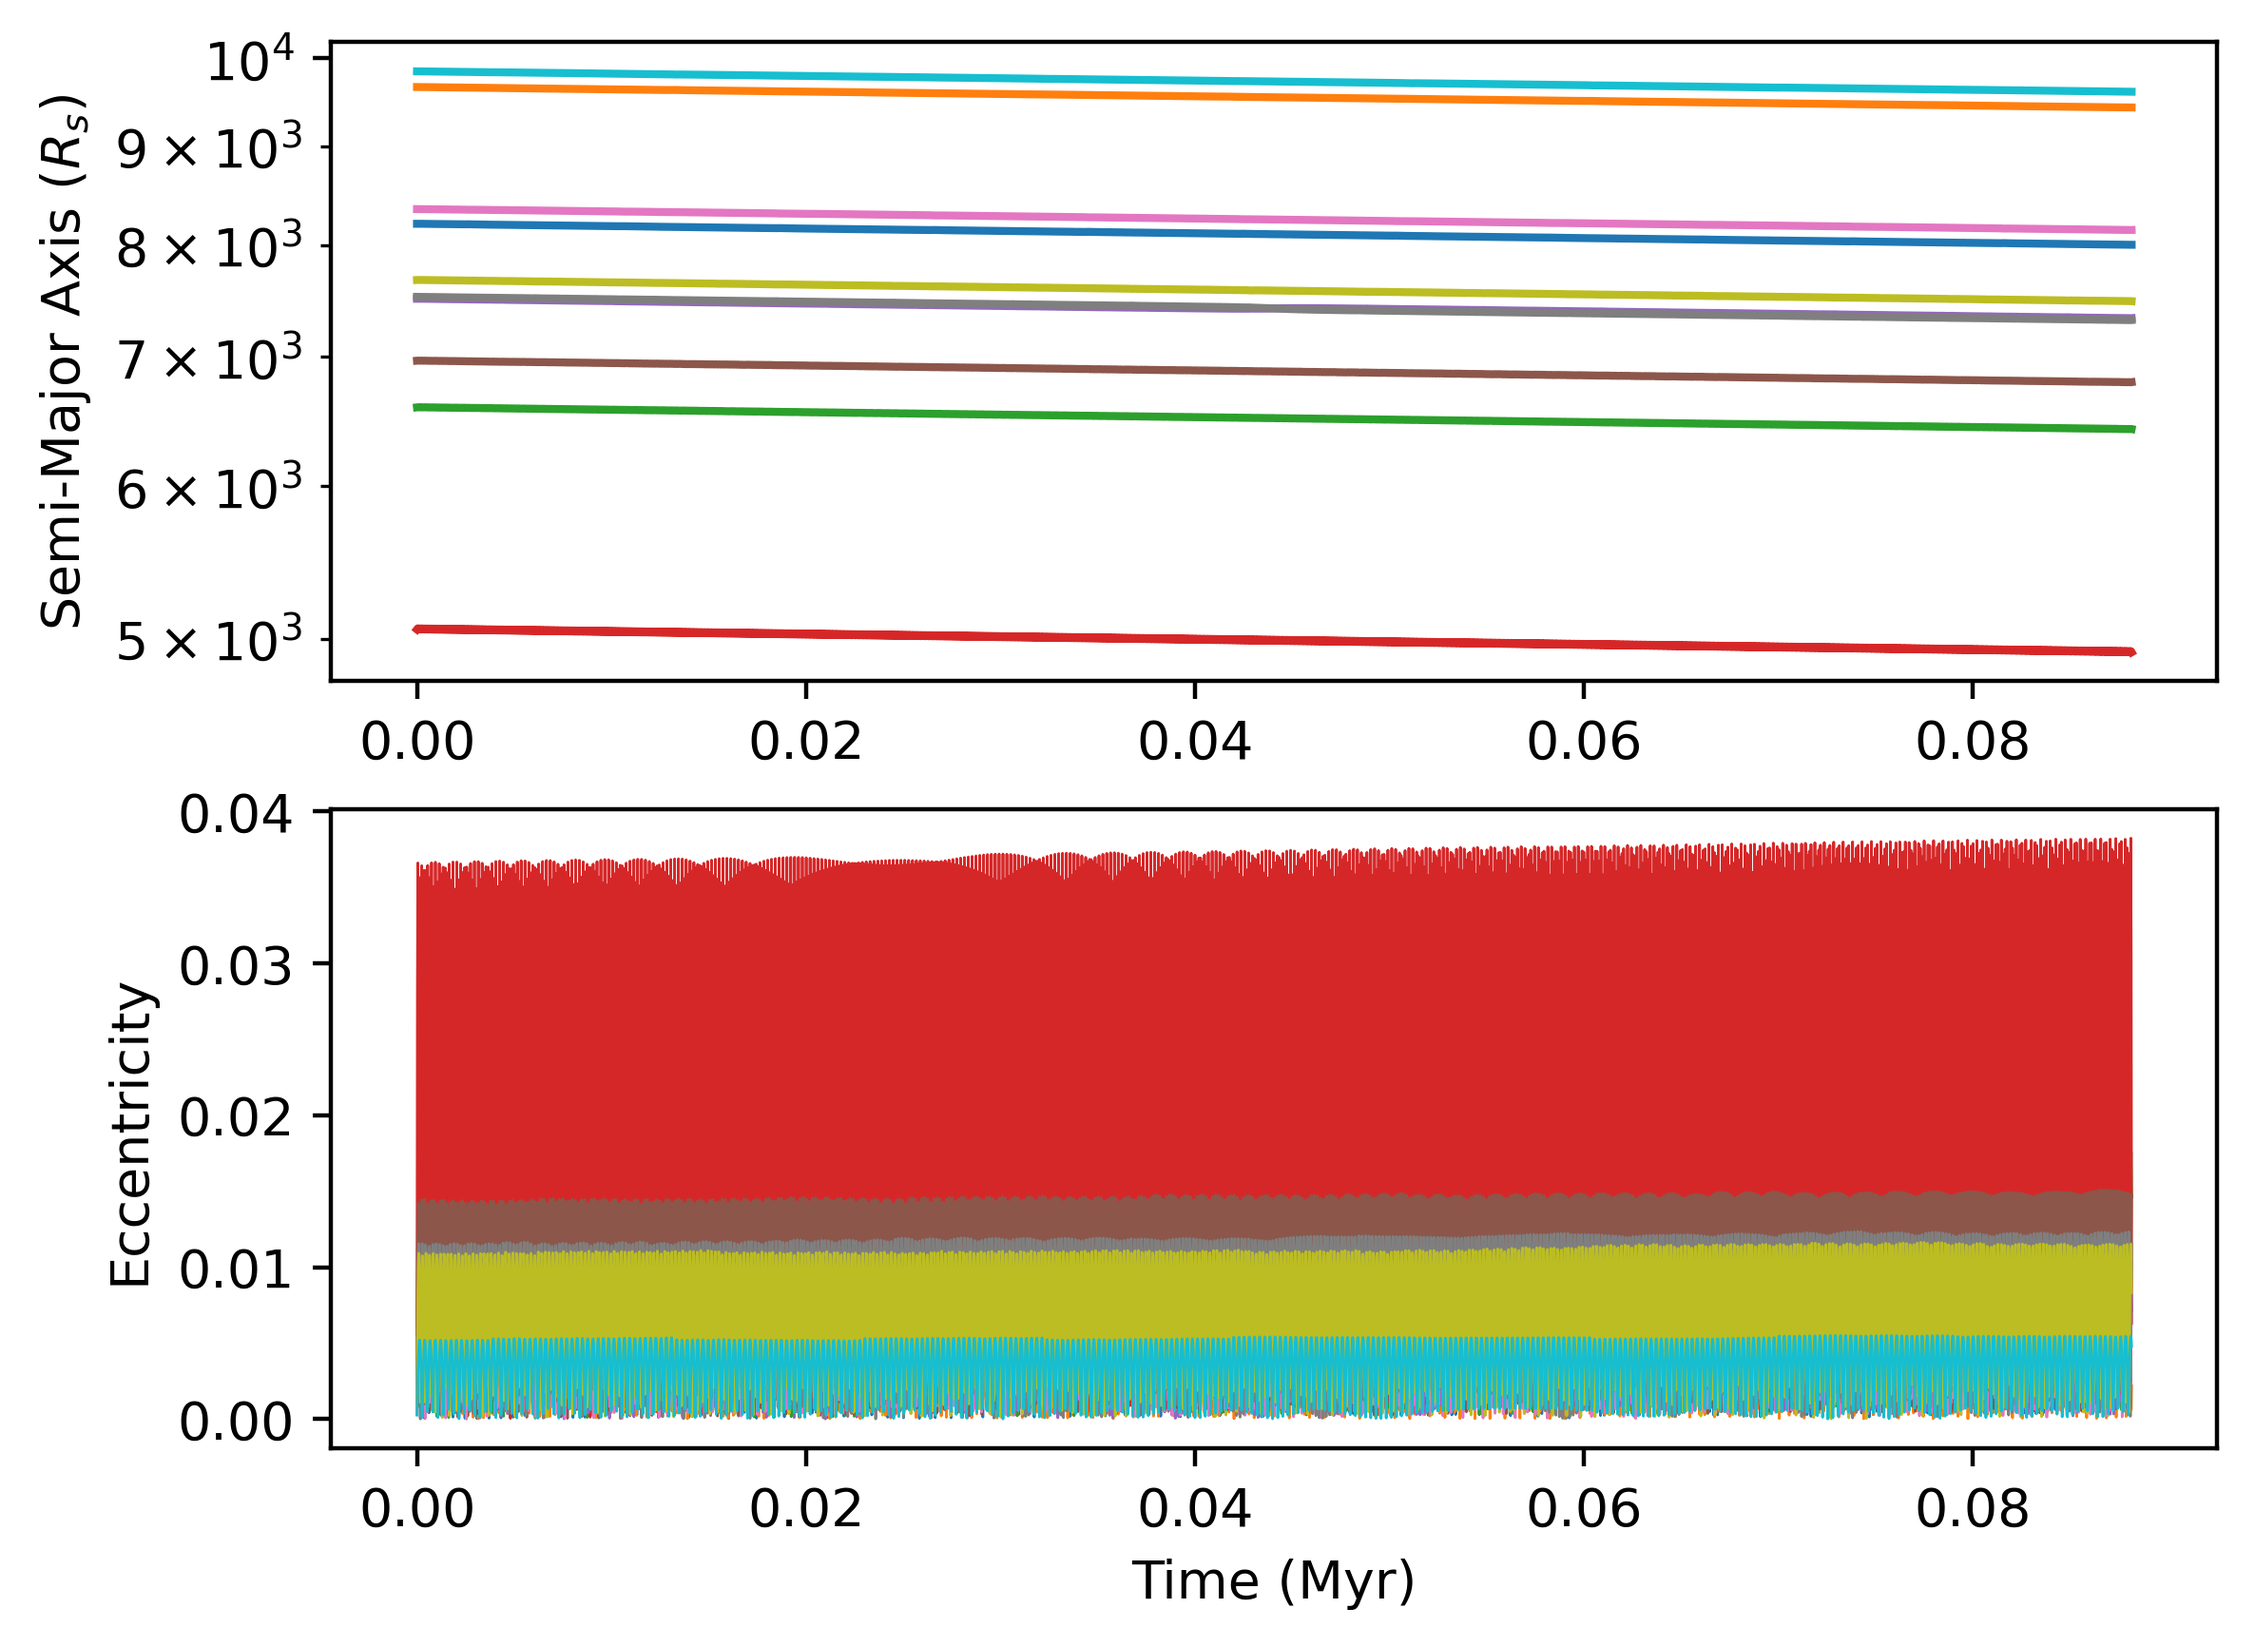
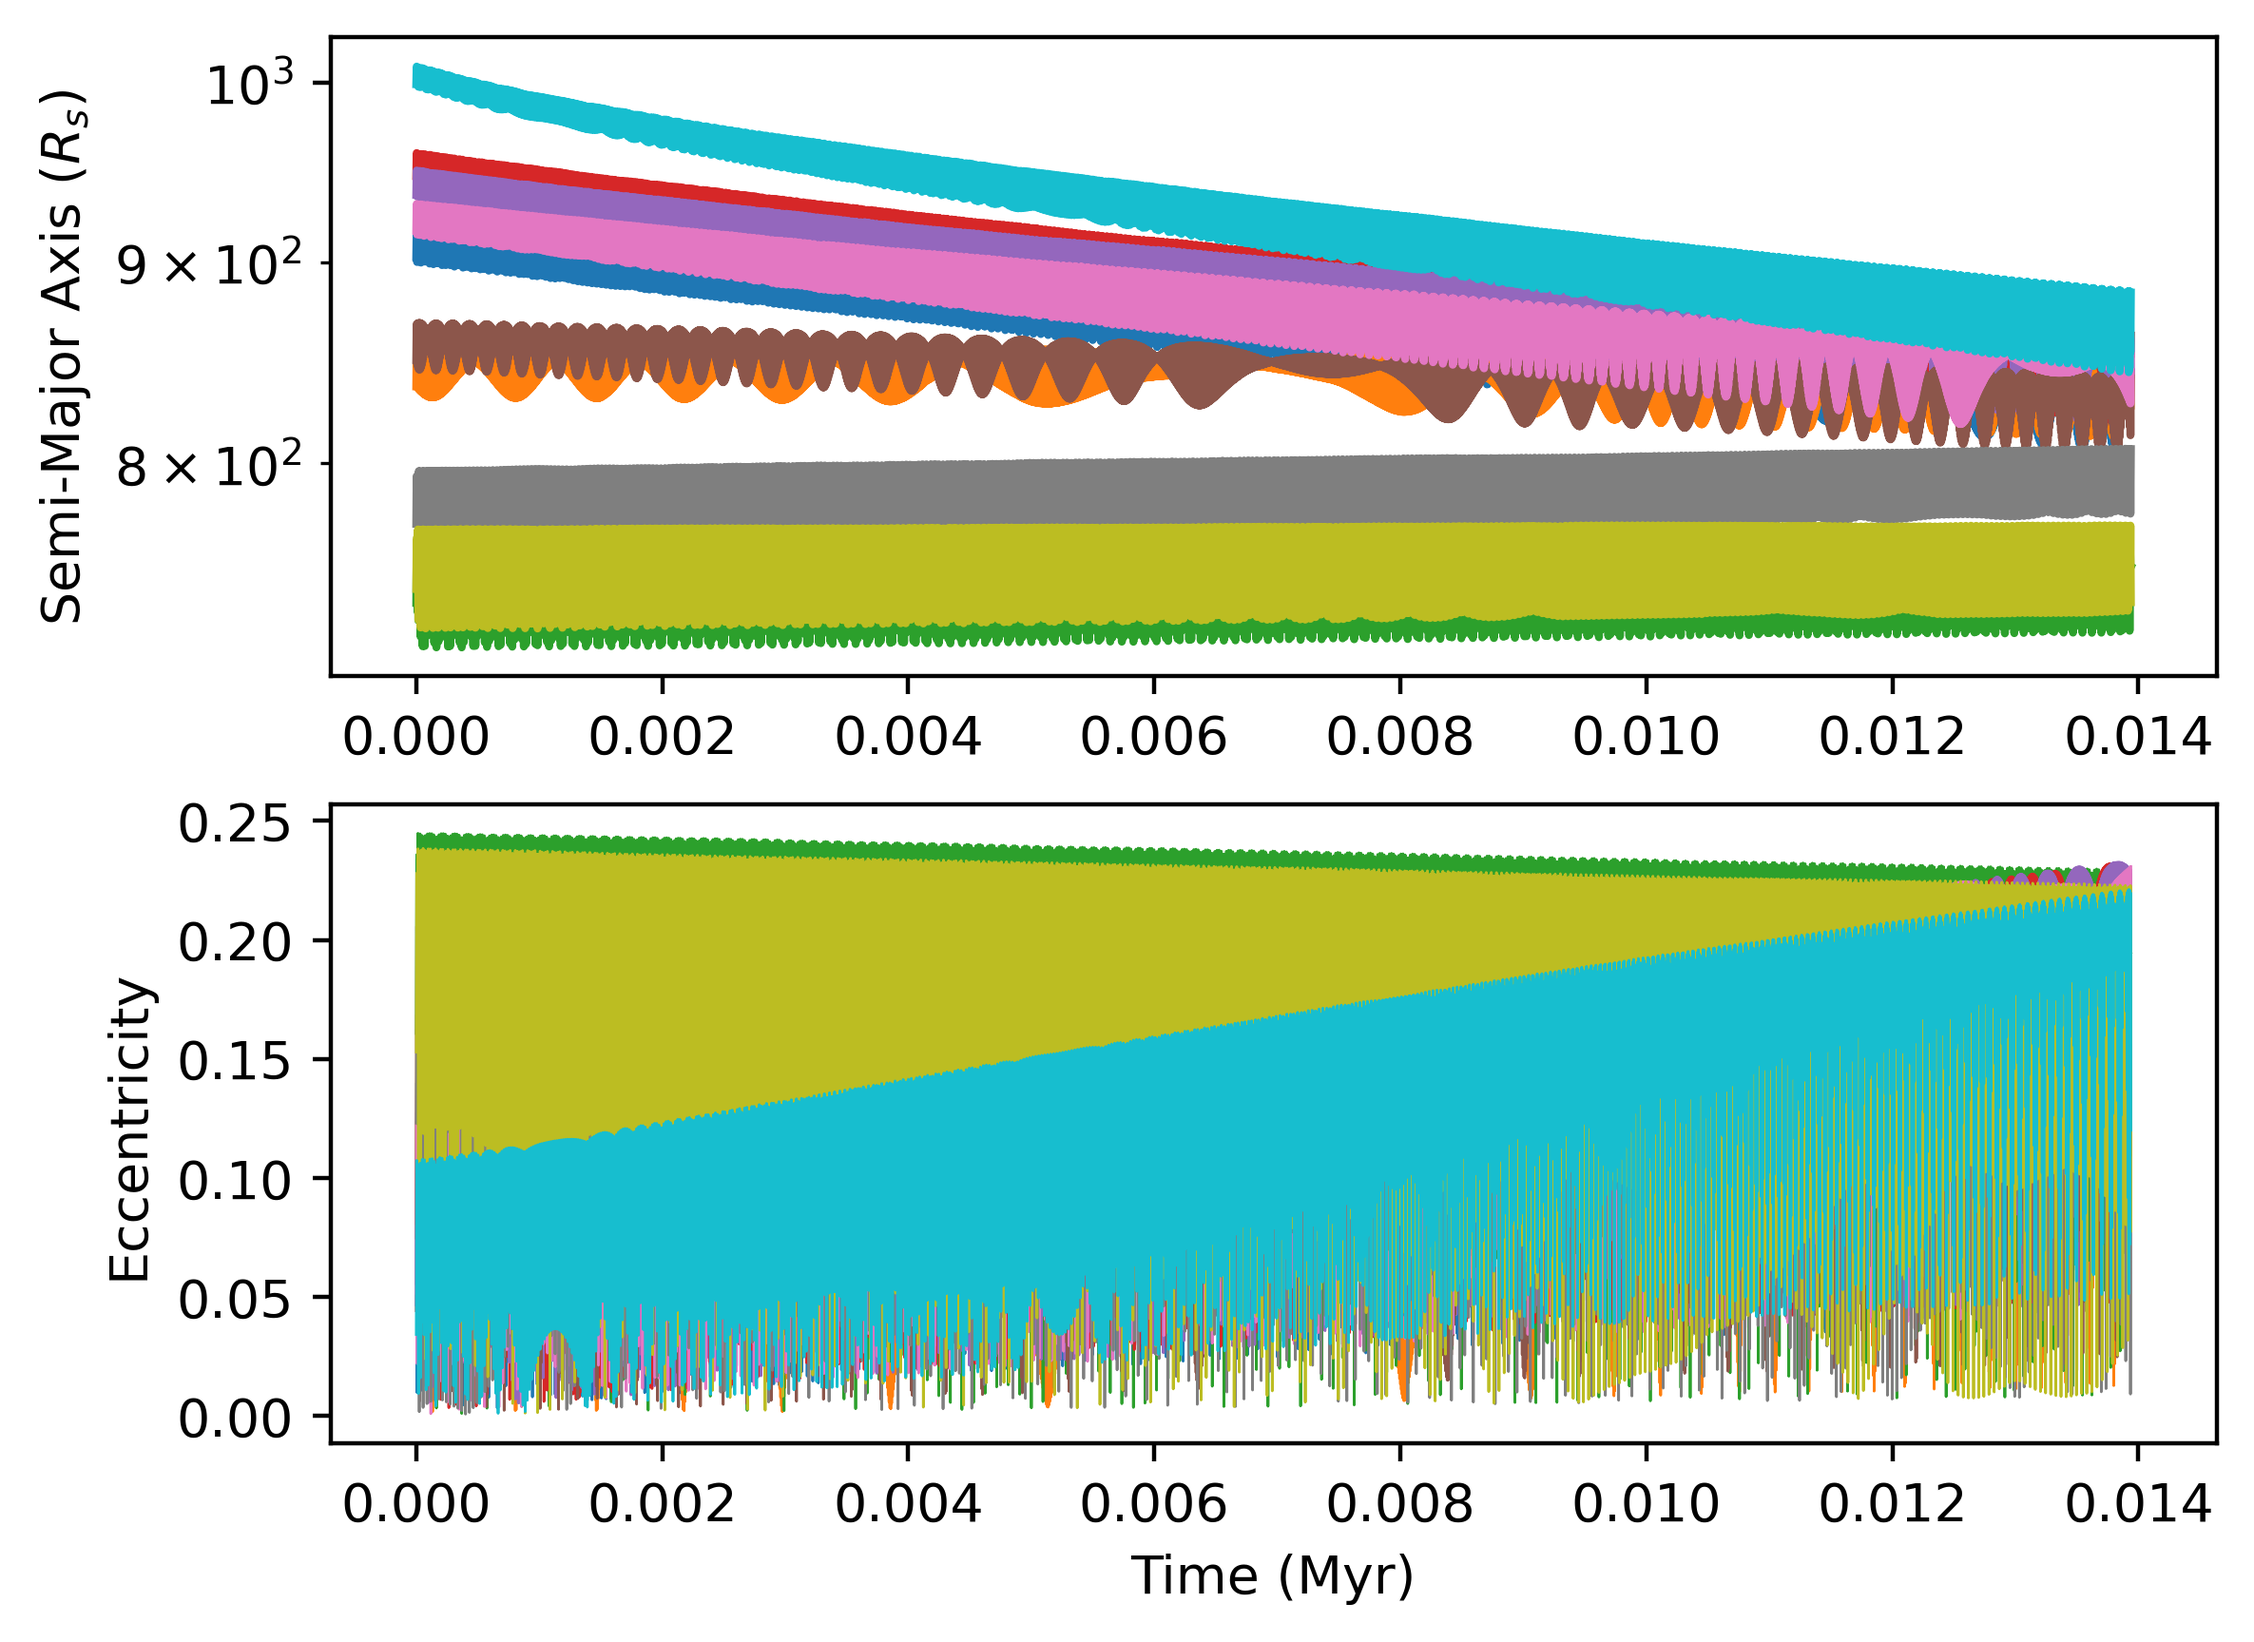
Fix bug in mutual hill radius calculation

diff --git a/N-Body_Code/CommonTools.py b/N-Body_Code/CommonTools.py
@@ -11,6 +11,9 @@ import matplotlib.pyplot as plt
 from matplotlib import animation
 import time
 
+G_pc = 4.3e-3   # pc.(km/s)^2/M_odot
+c = 3e8     # m/s
+
 class AGNDisk(object):
     def __init__(self, smbhmass, lenscale):
         '''
@@ -55,7 +58,7 @@ class AGNDisk(object):
         '''
         x, y, z = position
         radius = np.linalg.norm(position)
-        radial_vec = np.array([x, y, 0]) / radius
+        radial_vec = np.array([x, y, z]) / radius
         theta_vec = np.array([y, -x, 0]) / radius
         nondim_mig = self.mig_force(mass, radius) * theta_vec
         nondim_damp = self.damp_force(mass, position, vel) * radial_vec
@@ -123,11 +126,13 @@ class AGNDisk(object):
         logr = np.log10(radius * self.lenscale_rs)  # log(radius) in schwarzschild radii    
         a = semi_major_axis(position, vel)
         h = self.disk_aspectratio(logr)
-        tdamp = (self.mass**2 * h**4) / (mass * self.mass * self.disk_surfdens(logr) * a**2 * self.disk_rotvel(logr))
+        smbhmass = 1
+        tdamp = (smbhmass**2 * h**4) / (mass * smbhmass * self.disk_surfdens(logr) * a**2 * self.disk_rotvel(logr))
         e = np.linalg.norm(np.cross(vel, np.cross(position, vel)) - position / radius)        # https://astronomy.stackexchange.com/questions/29005/calculation-of-eccentricity-of-orbit-from-velocity-and-radius
         # print(e)
         eps = e / h
-        t_e = (tdamp / 0.78) * (1 - 0.14 * eps**2 + 0.06 * eps**3) 
+        t_e = (tdamp / 0.78) * (1 - 0.14 * eps**2 + 0.06 * eps**3)
+        # print(t_e)
         f_damp = -2 * np.dot(vel, position) * position / (radius**2 * t_e)
         return f_damp
     
@@ -148,9 +153,12 @@ class AGNDisk(object):
         return val * self.lenscale_m**2 / self.massscale
     def disk_rotvel(self, logr):
         '''Returns units of m/s'''
-        v = np.sqrt(4.3 * 10**-3 * self.mass / (10**logr * 2 * self.r_g)) * 1000
+        # v = np.sqrt(4.3 * 10**-3 * self.mass / (10**logr * 2 * self.r_g)) * 1000
+        # # print('rotvel=', v)
+        # return v / self.velscale
+        v = np.sqrt(4.3 * 10**-3 * self.mass / (10**logr * 2 * self.r_g)**3) * 1000
         # print('rotvel=', v)
-        return v / self.velscale
+        return v * self.lenscale / self.velscale
     def disk_aspectratio(self, logr):
         '''Aspect ratio of scale height: h = H / r. Unitless.'''
         if logr <= 3:
@@ -217,7 +225,7 @@ def leapfrog_kdk_timestep(dt, pos, masses, softening, vel, accel, agn, captured,
         for j, secondary in enumerate(check_inds[i + 1:]):
             r2 = np.linalg.norm(pos[secondary])
             m2 = masses[secondary]
-            R_mH = np.cbrt((m1 + m2) / (3 * agn.mass)) * (r1 + r2) / r2 
+            R_mH = np.cbrt((m1 + m2) / (3 * masses[0])) * (r1 + r2) / 2 
             # print(pos[primary] - pos[secondary])
             dist = np.linalg.norm(pos[primary] - pos[secondary])
             if dist < R_mH:
@@ -287,7 +295,7 @@ def AGNBHICs(masses, smbhmass, seed=4080):
     '''
     N = len(masses)
     # r_s = 4.3 * 10**-3 * smbhmass / (9 * 10**10)
-    np.random.seed(seed) # seed the RNG for reproducibility
+    # np.random.seed(seed) # seed the RNG for reproducibility
     
     # uniformly (and randomly) distribute points in the unit disk
     theta = np.random.uniform(0, 2*np.pi, N)

diff --git a/N-Body_Code/nbodytest.py b/N-Body_Code/nbodytest.py
@@ -14,14 +14,14 @@ import time
 from CommonTools import *
 
 
-Tmax = 2000
+Tmax = 10000
 dt = 0.1
 nt = int((Tmax - 0) / dt) + 1
 NsBH = 10
 NsBHMasses = np.ones(NsBH) * 10
 SMBHMass = 1e8
 r_s = 2 * 4.3e-3 * SMBHMass / 9e10  # 2GM / c^2     units of pc
-Nr_s = 1e4      # number of schwarzschild radii to initialise the sim with respect to
+Nr_s = 1e3      # number of schwarzschild radii to initialise the sim with respect to
 lenscale = Nr_s * r_s
 agn = AGNDisk(SMBHMass, lenscale)
 
@@ -46,5 +46,5 @@ for i in range(1, 11):
 axes[0].set(yscale='log', ylabel="Semi-Major Axis ($R_s$)")
 axes[1].set(xlabel="Time (Myr)", ylabel='Eccentricity')
 # fig.savefig('NBodyTest.png', dpi=400, bbox_inches='tight')
-fig.savefig('MigrationTest.png', dpi=400, bbox_inches='tight')
+fig.savefig('MigrationTest2.png', dpi=400, bbox_inches='tight')
 # fig.savefig('CaptureTest2.png', dpi=400, bbox_inches='tight')
